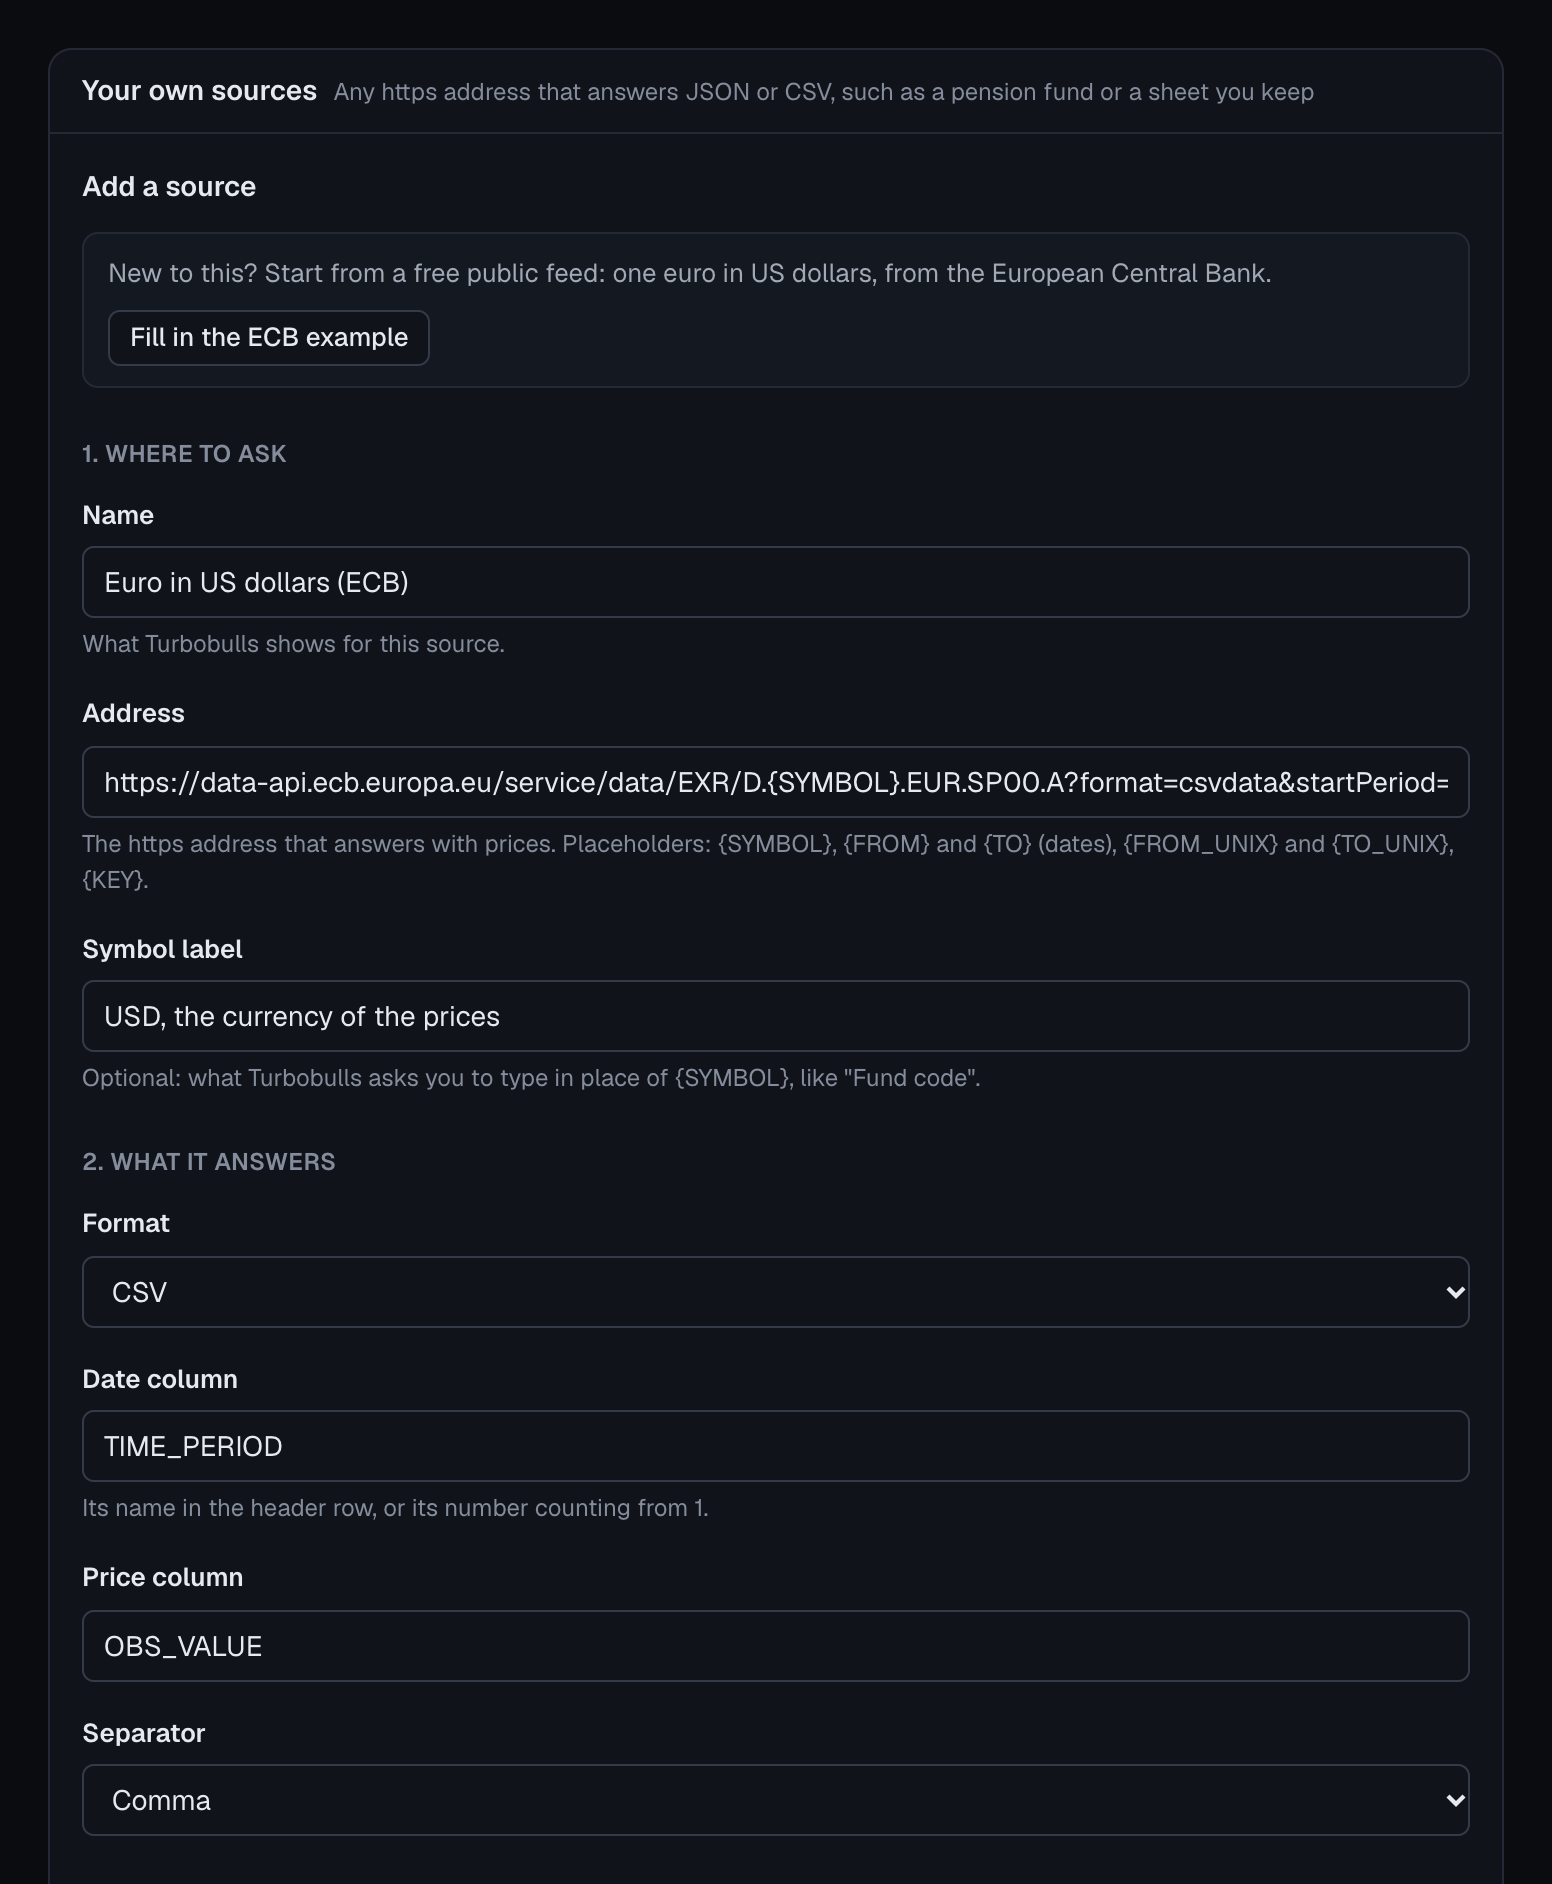
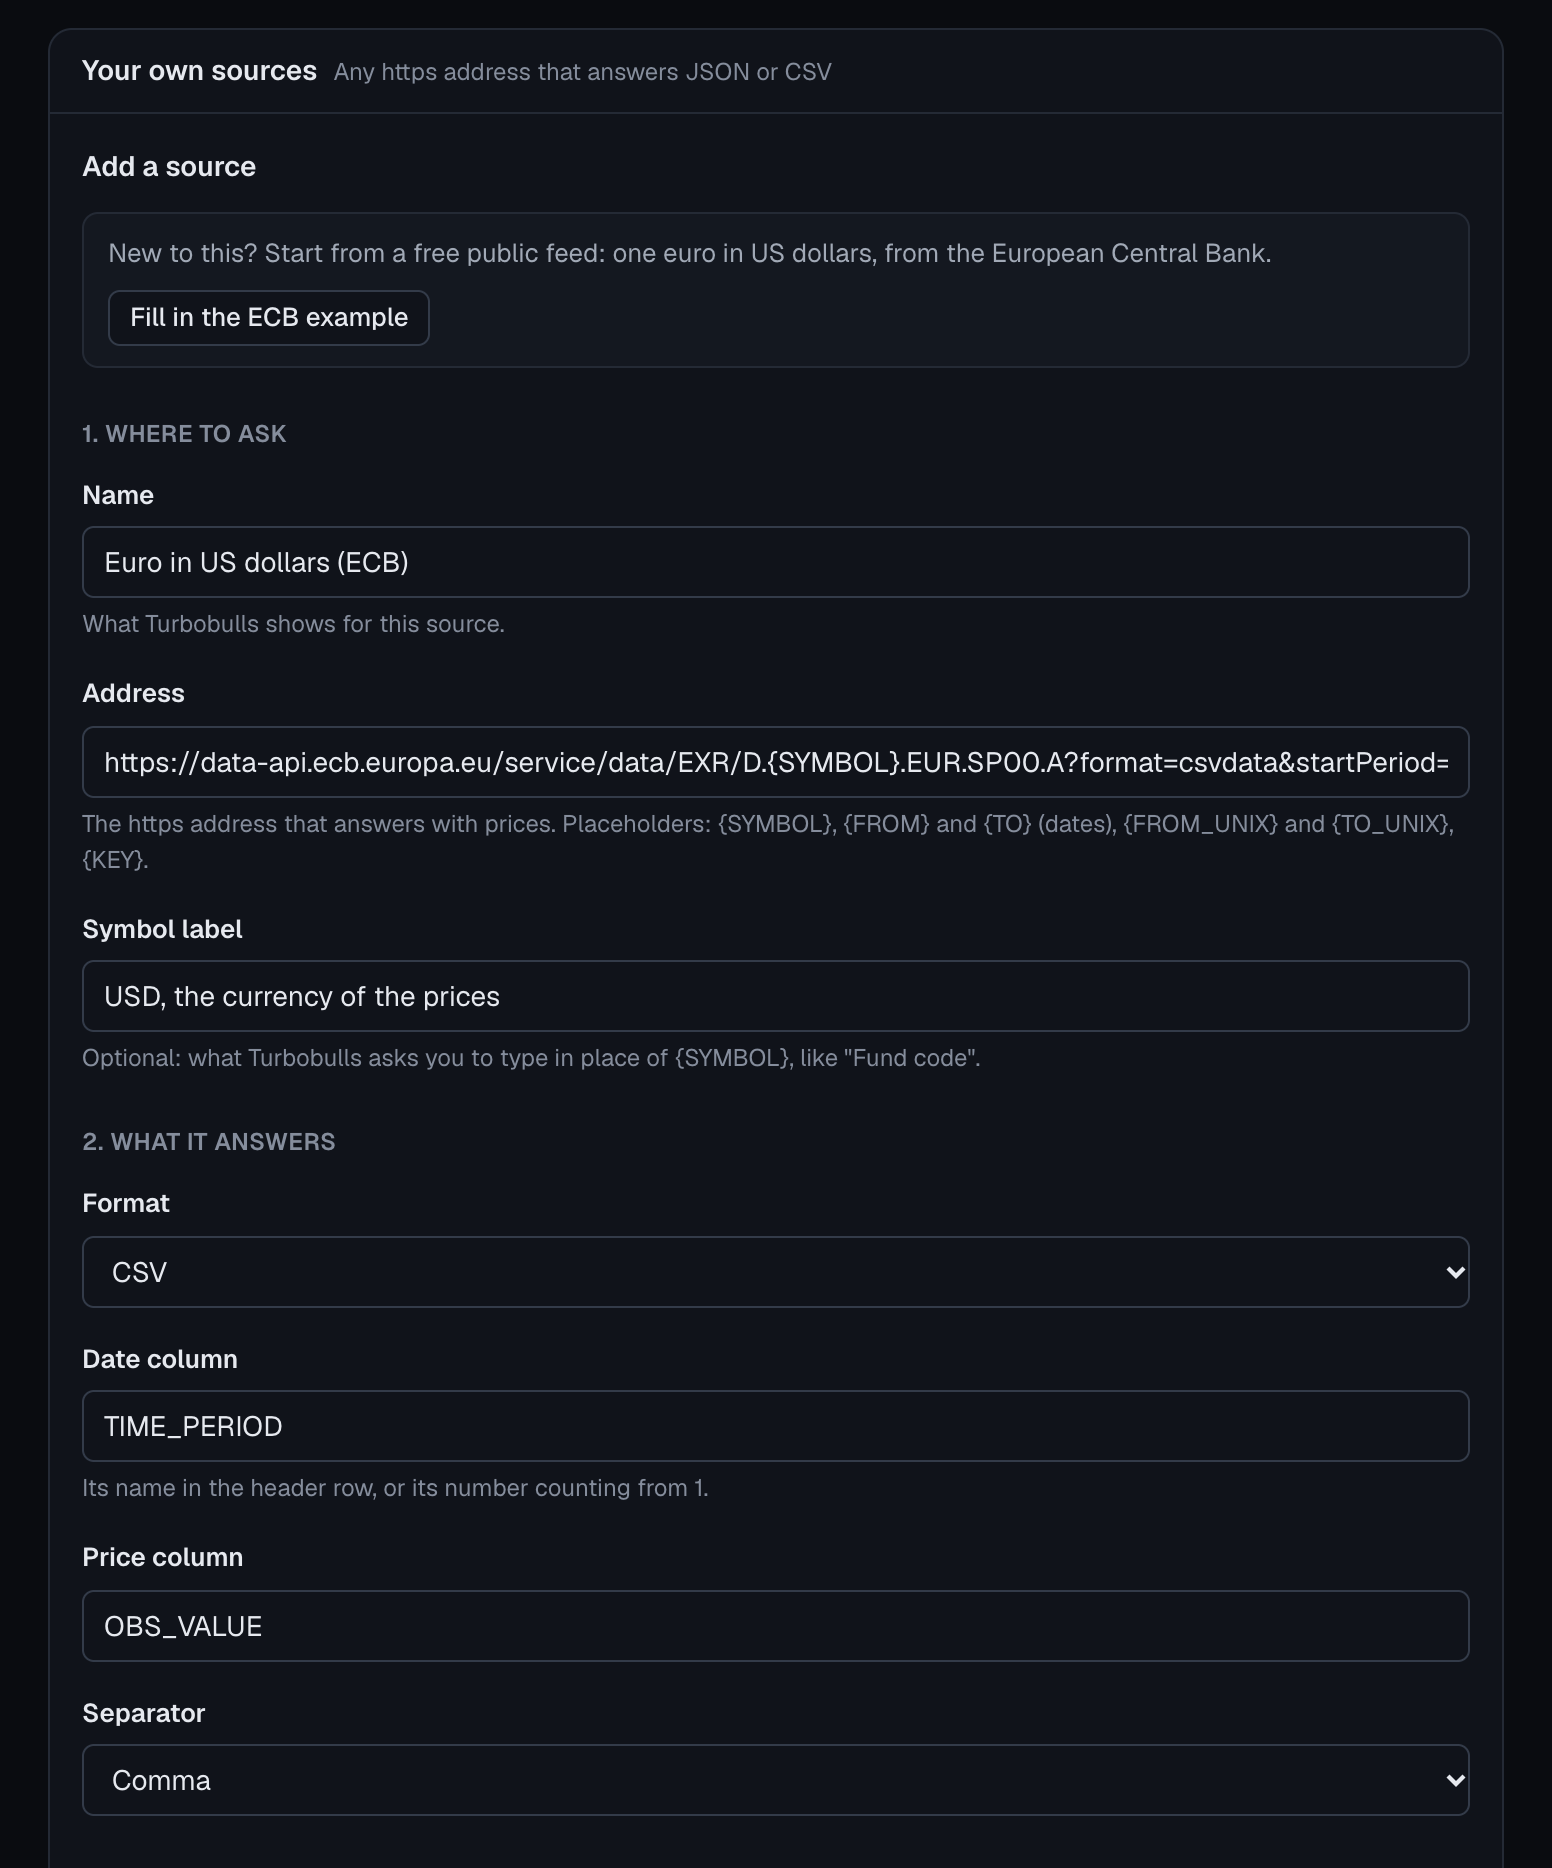
docs: pictures of the new settings page, and the first step names its buttons
The settings and Add a source pictures are retaken from the redesigned page, light and dark.
Getting started now says to press Add key next to your provider, then Save and test.

Changed region(s): [[0.0619, 0.2173, 0.9278, 0.9625], [0.0309, 0.031, 0.8351, 0.1863], [0.9278, 0.9315, 0.9588, 0.9625]]

diff --git a/README.md b/README.md
@@ -41,7 +41,7 @@ prices come back.
 <p align="center">
   <picture>
     <source media="(prefers-color-scheme: dark)" srcset="docs/images/settings-dark.png">
-    <img src="docs/images/settings-light.png" width="720" alt="The Turbobulls Connector settings page: setup in three steps and your API keys">
+    <img src="docs/images/settings-light.png" width="720" alt="The Turbobulls Connector settings page, all set: one key saved, the other providers without a key, and a source of your own">
   </picture>
 </p>
 
@@ -86,8 +86,9 @@ it yourself, see [Development](#development).
 
 ## Getting started
 
-1. **Add your key.** Click the extension's icon. On the settings page that opens, paste your
-   provider's API key and press **Save**. The extension checks the key with one small request.
+1. **Add your key.** Click the extension's icon. On the settings page that opens, press **Add key**
+   next to your provider, paste its API key and press **Save and test**. The extension checks the
+   key with one small request.
 2. **Find the Connector in Turbobulls.** Open **Settings > Custom data sources**: the extension
    shows as ready, with the providers you set up.
 3. **Price an asset.** Add a custom asset, choose **From a custom data source**, search for the
